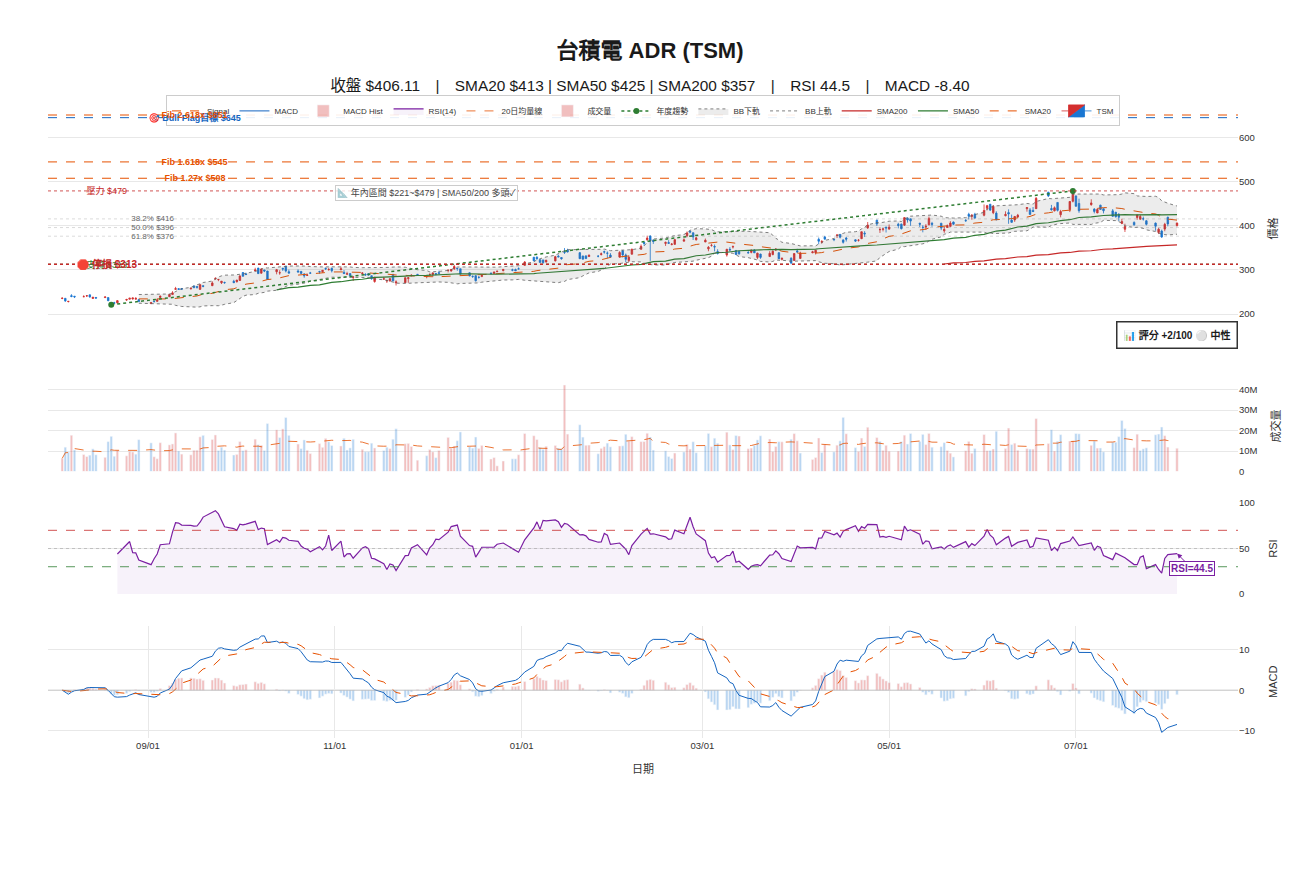
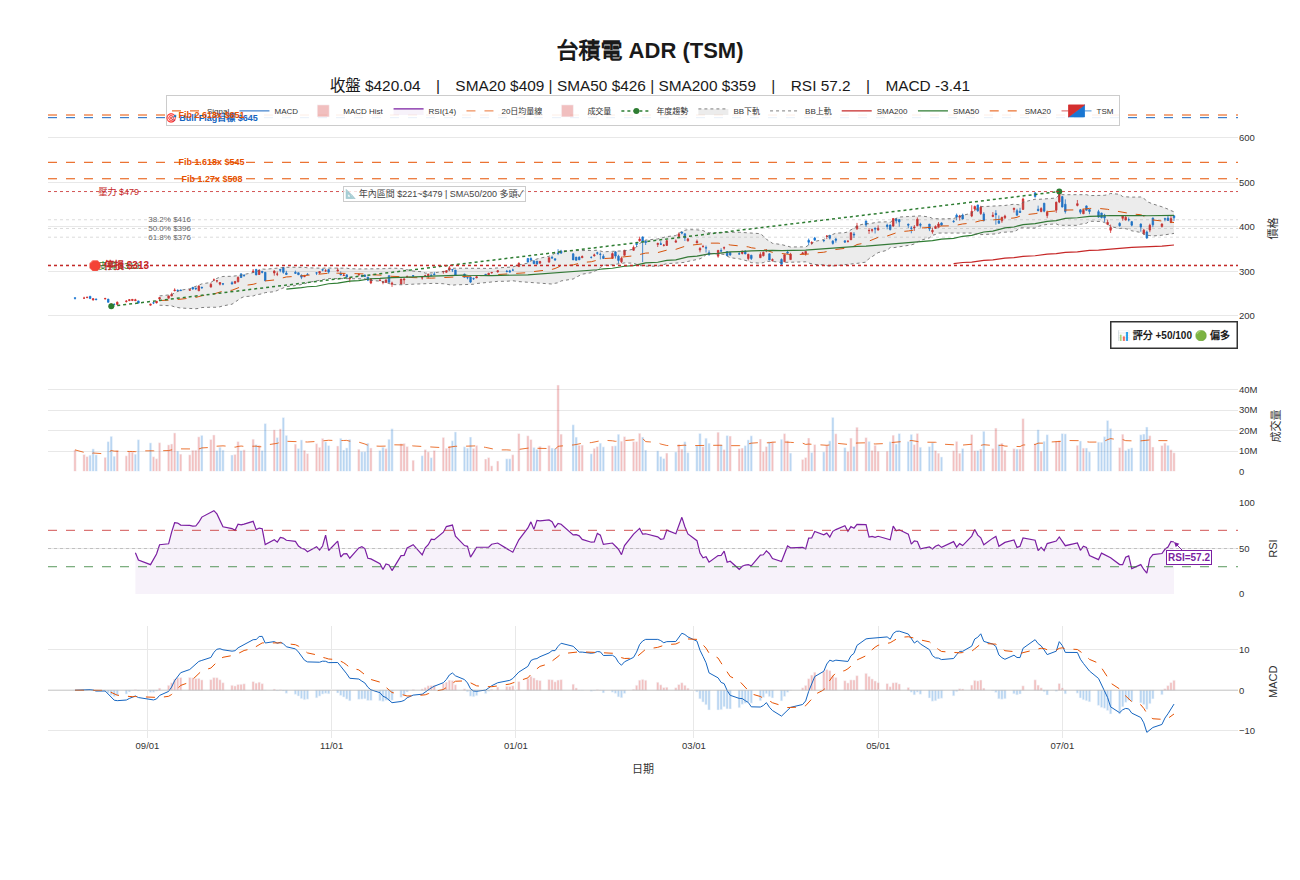
charts: 更新 2026-08-10 技術圖（資料截至 08/07 收盤）

diff --git a/charts/index.html b/charts/index.html
@@ -39,27 +39,27 @@ body { font-family:'Noto Sans TC',sans-serif; background:#f5f0e8; color:#1a1714;
   <a href="../">← 回首頁</a>
 </div>
 <div class="container">
-  <div class="date-badge">📅 2026/08/04 更新 — 週一</div>
+  <div class="date-badge">📅 2026/08/10 更新 — 週一（資料截至 08/07 收盤）</div>
   <div class="chart-grid">
     <div class="chart-card">
       <img src="dji.png" alt="道瓊工業指數">
-      <div class="info"><h3>道瓊工業指數 DJI</h3><p>53,178.41 (+1.86%) · RSI 55.9 · 🟢 偏多</p></div>
+      <div class="info"><h3>道瓊工業指數 DJI</h3><p>54,036.93 (+0.28%) · RSI 67.0 · 🟢 偏多</p></div>
     </div>
     <div class="chart-card">
       <img src="sox.png" alt="費城半導體指數">
-      <div class="info"><h3>費城半導體指數 SOX</h3><p>11,430.35 (+1.13%) · RSI 36.8 · ⚪ 中性</p></div>
+      <div class="info"><h3>費城半導體指數 SOX</h3><p>12,356.79 (+2.56%) · RSI 56.3 · 🟢 偏多</p></div>
     </div>
     <div class="chart-card">
       <img src="ixic.png" alt="納斯達克指數">
-      <div class="info"><h3>納斯達克指數 IXIC</h3><p>25,913.90 (+3.15%) · RSI 47.7 · 🟢 偏多</p></div>
+      <div class="info"><h3>納斯達克指數 IXIC</h3><p>26,690.62 (+1.30%) · RSI 63.3 · 🟢 偏多</p></div>
     </div>
     <div class="chart-card">
       <img src="tsm.png" alt="台積電 ADR">
-      <div class="info"><h3>台積電 ADR (TSM)</h3><p>$406.11 (+0.70%) · RSI 44.5 · ⚪ 中性</p></div>
+      <div class="info"><h3>台積電 ADR (TSM)</h3><p>$420.04 (+0.44%) · RSI 57.2 · 🟢 偏多</p></div>
     </div>
     <div class="chart-card">
       <img src="intc.png" alt="Intel">
-      <div class="info"><h3>Intel (INTC)</h3><p>$91.00 (-0.14%) · RSI 35.5 · ⚪ 中性</p></div>
+      <div class="info"><h3>Intel (INTC)</h3><p>$101.65 (+1.84%) · RSI 54.1 · 🟢 偏多</p></div>
     </div>
     <div class="chart-card" style="cursor:pointer;" onclick="location.href='taiex-technical.html'">
       <div style="height:160px;background:linear-gradient(135deg,#1a1a2e,#16213e);display:flex;align-items:center;justify-content:center;">
